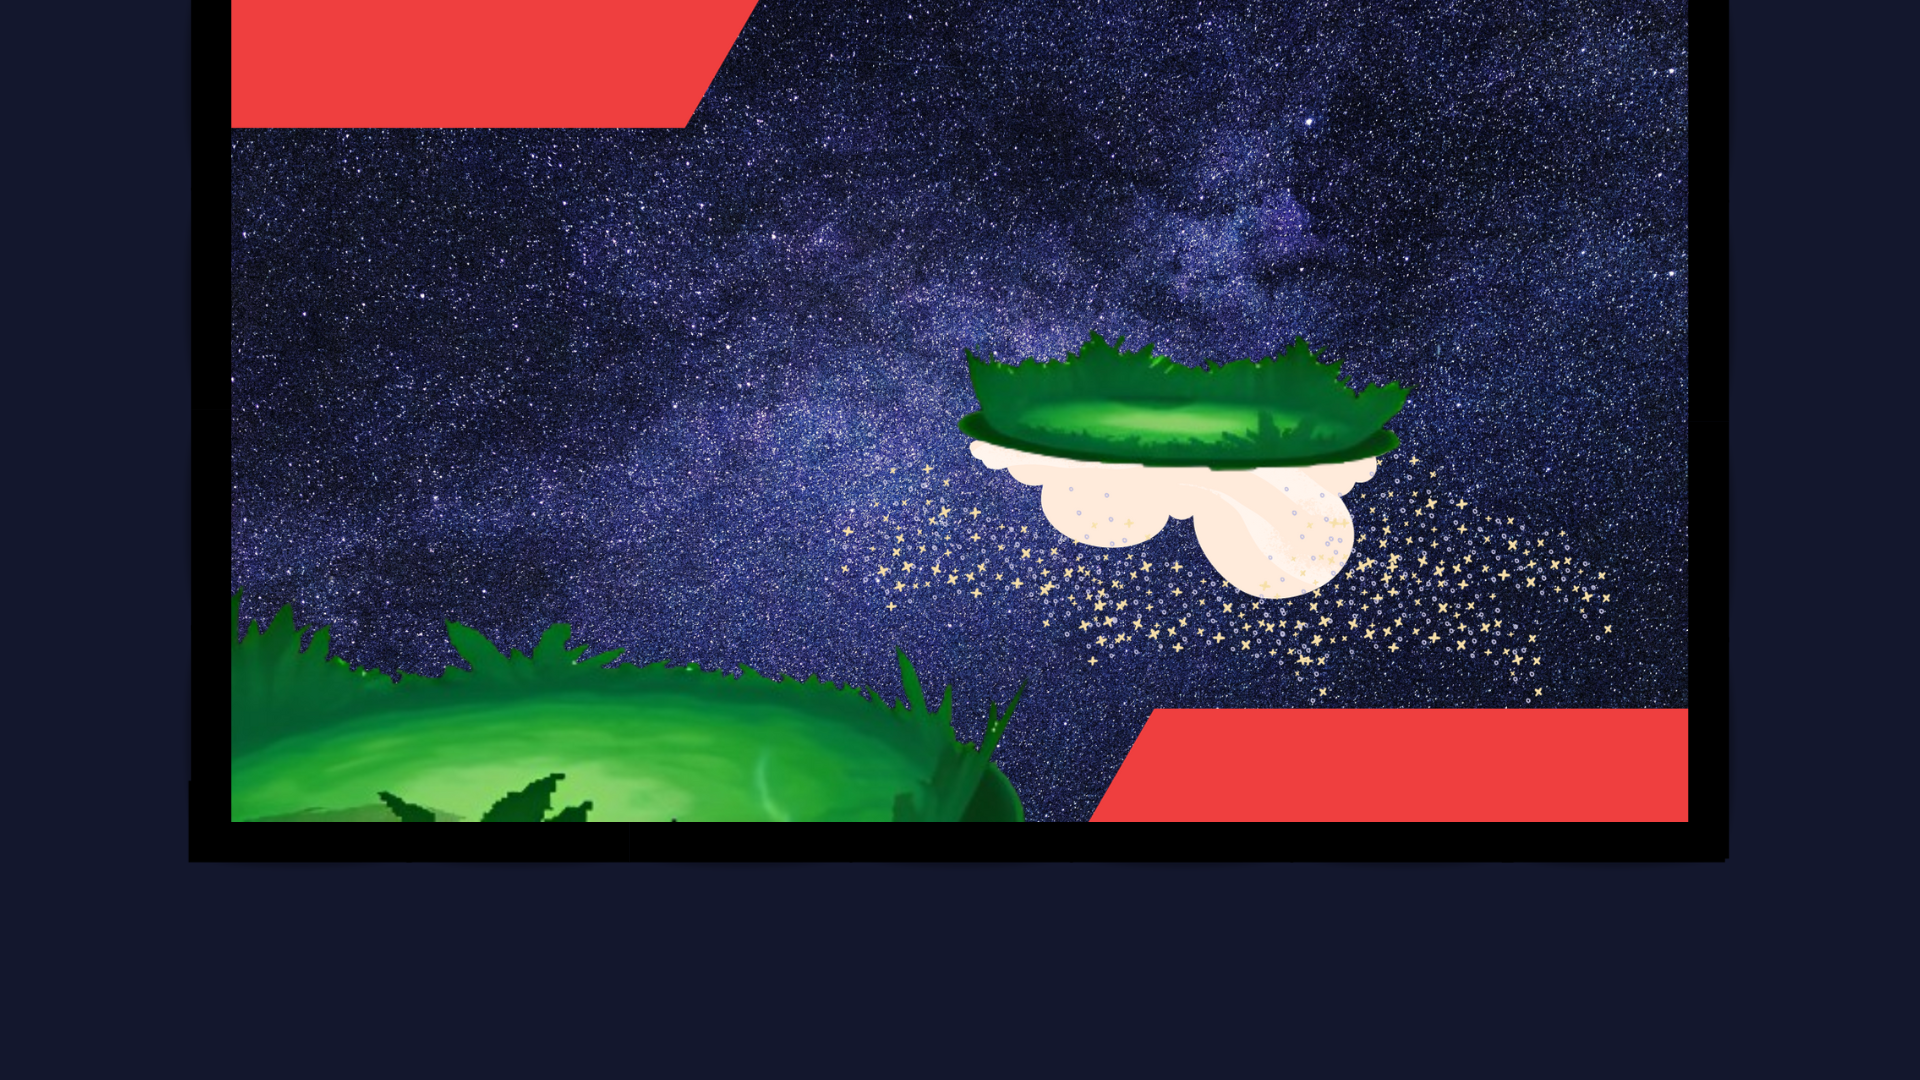
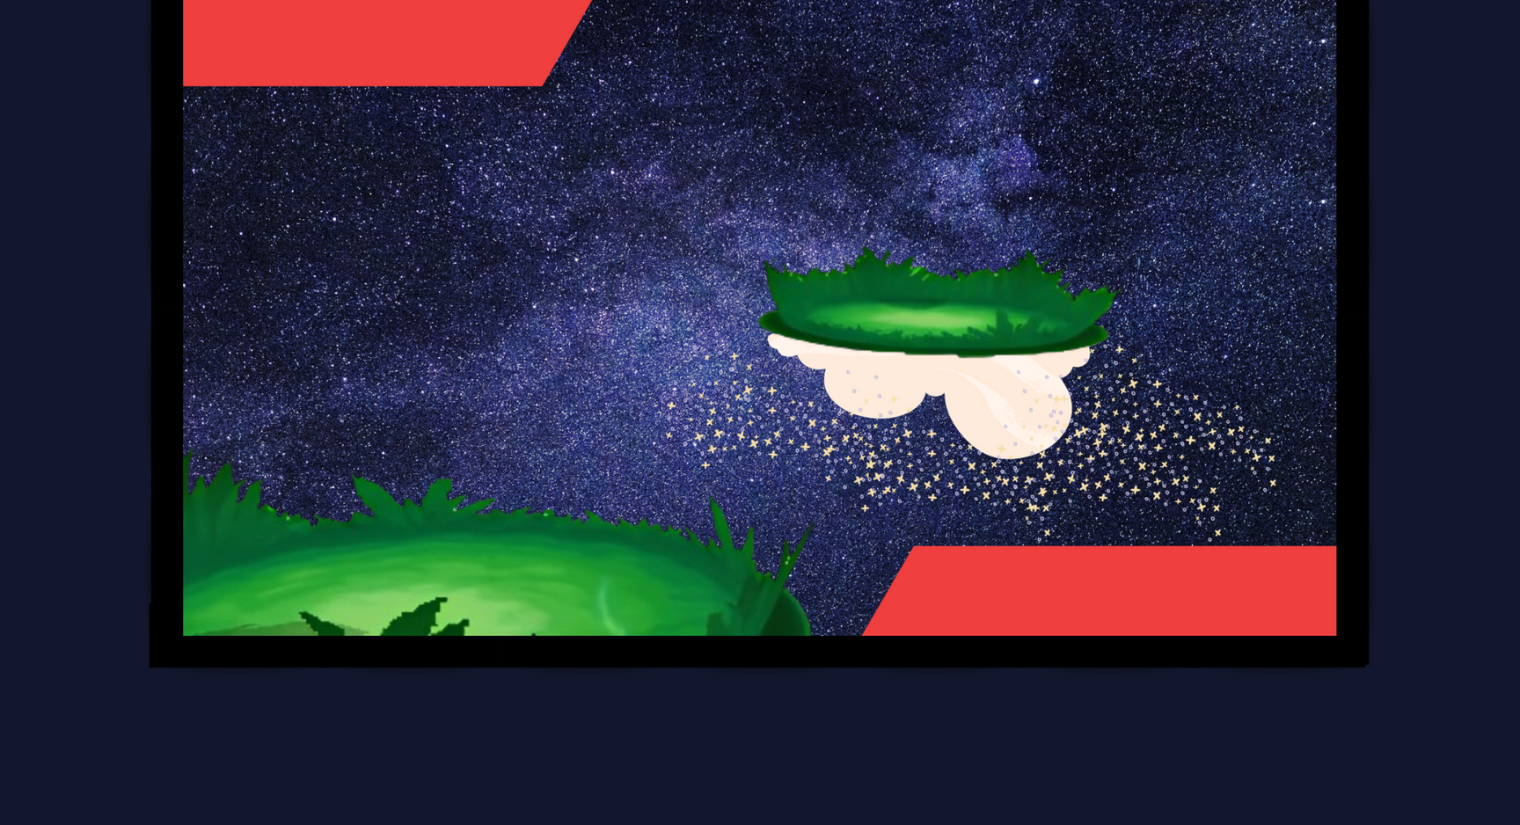
modif images scene

Changed region(s): [[0.1237, 0.0, 0.8967, 0.4848], [0.0928, 0.5152, 0.8967, 0.8182]]

diff --git a/classes/Scene/Scene.py b/classes/Scene/Scene.py
@@ -5,8 +5,8 @@ import os
 class Scene:
     def __init__(self):
         pygame.init()
-        self.largeur = 1920
-        self.hauteur = 1025
+        self.largeur = 1520
+        self.hauteur = 825
         self.fenetre = pygame.display.set_mode((self.largeur, self.hauteur))
         pygame.display.set_caption("pokégame !")
         dossier_assets = "assets/assets_scene"
